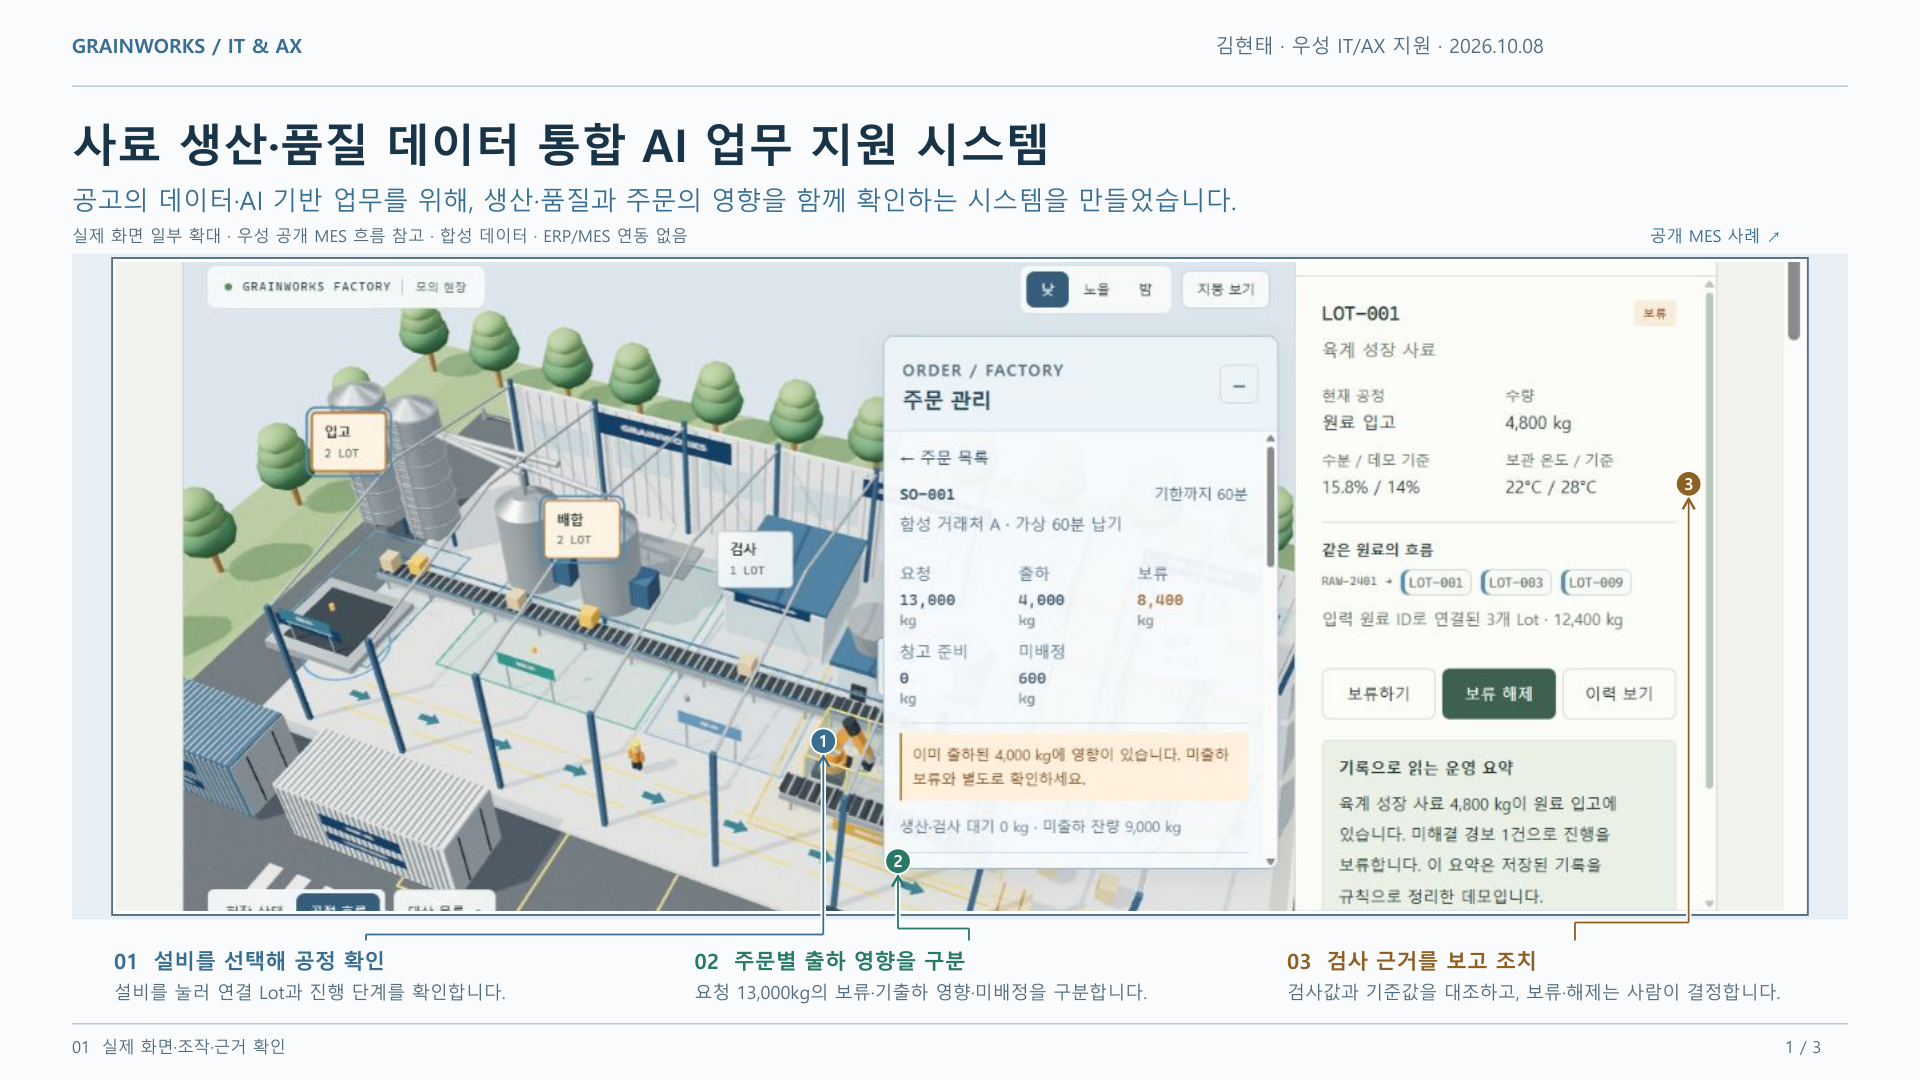
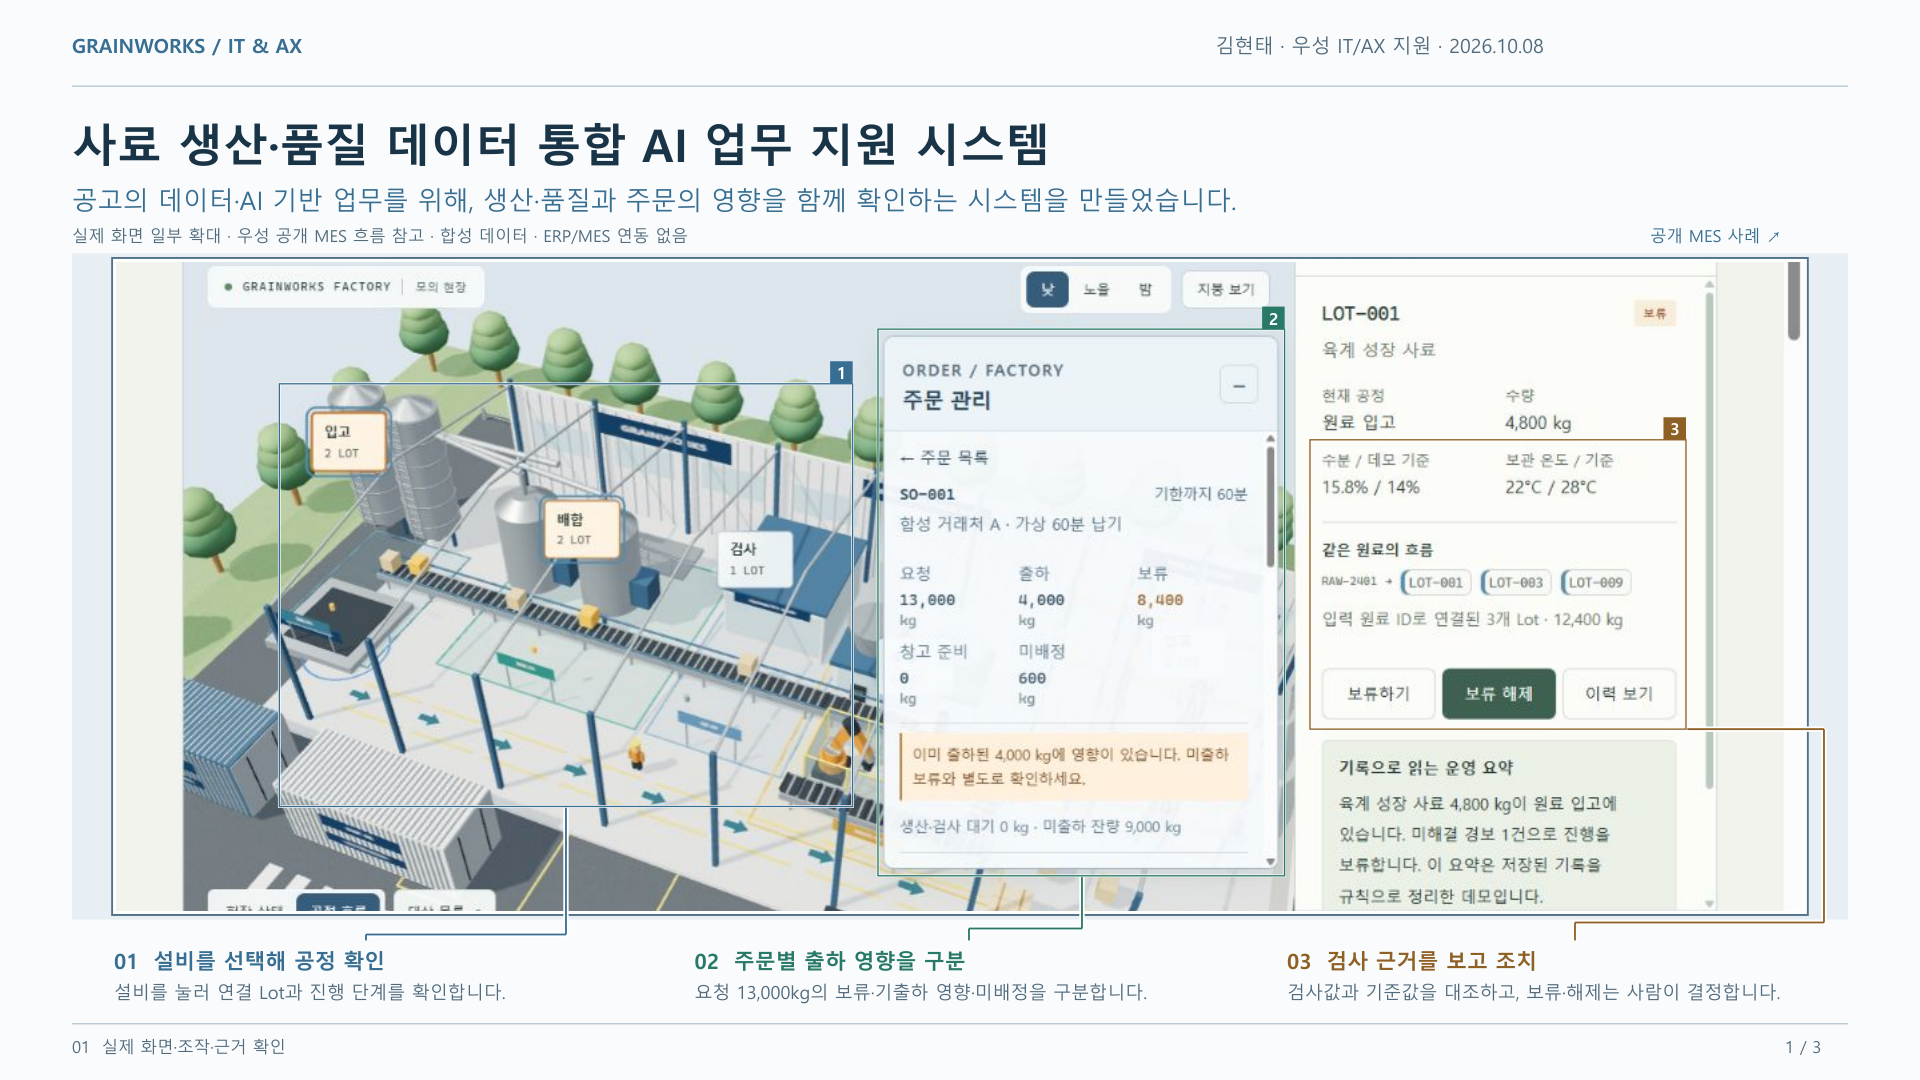
Outline portfolio callout regions and connect explanations to borders

diff --git a/docs/portfolio/build_orders_portfolio.py b/docs/portfolio/build_orders_portfolio.py
@@ -14,7 +14,7 @@ from reportlab.lib.styles import ParagraphStyle
 
 ROOT=Path(__file__).resolve().parents[2]
 OUT=ROOT/'docs/portfolio';ORD=ROOT/'docs/orders';EVID=OUT/'evidence'
-PDF=OUT/'김현태_우성_IT_AX_생산품질_주문_AI_포트폴리오_v11.pdf'
+PDF=OUT/'김현태_우성_IT_AX_생산품질_주문_AI_포트폴리오_v12.pdf'
 REPO='https://github.com/Kimhyuntae9665/grainworks-agent'
 MES='https://www.woosungfeed.co.kr/m11.php'
 JD='https://woosung.recruiter.co.kr/career/jobs/128746'
@@ -61,21 +61,30 @@ def build():
   c.restoreState()
   frames.append({'page':page,'file':str(file.relative_to(ROOT)),'image':[ix,it,iw,ih],'sourceCrop':[left,top,right,bottom],'outerBorder':[ix-3,it-3,iw+6,ih+6],'stroke':'#52728a'})
   return ix,it,iw,ih
- def annotate(page,anchor,route,label,number,title,detail,color,heading_size=12,detail_size=11,detail_offset=21,badge=True,kind='screenshot'):
+ def annotate(page,anchor,route,label,number,title,detail,color,heading_size=12,detail_size=11,detail_offset=21,badge=True,kind='screenshot',region=None):
   ax,at=anchor;lx,lt=label;path=[anchor]+route
   # Leader overlays are separate from the unchanged source screenshot.
   # The label end and image end share a number; white backing keeps the line visible.
   for width,stroke in [(3.6,'#ffffff'),(1.2,color)]:
    c.setLineWidth(width);c.setStrokeColor(HexColor(stroke))
    for (x,t),(x2,t2) in zip(path,path[1:]):c.line(x,H-t,x2,H-t2)
-  c.setFillColor(HexColor(color));c.setStrokeColor(HexColor('#ffffff'));c.setLineWidth(1.2)
-  c.circle(ax,H-at,8.5 if badge else 3,fill=1,stroke=1)
-  if badge:
+  if region:
+   rx,rt,rw,rh=region
+   # Transparent annotation: the box encloses the real target, with its number outside.
+   for width,stroke in [(1.8,'#ffffff'),(0.9,color)]:
+    c.setLineWidth(width);c.setStrokeColor(HexColor(stroke));c.rect(rx,H-rt-rh,rw,rh,fill=0,stroke=1)
+   rect(rx+rw-15,rt-15,15,15,color)
+   c.setFillColor(HexColor('#ffffff'));c.setFont('MGB',11)
+   c.drawCentredString(rx+rw-7.5,H-rt+3,str(number))
+  else:
+   c.setFillColor(HexColor(color));c.setStrokeColor(HexColor('#ffffff'));c.setLineWidth(1.2)
+   c.circle(ax,H-at,8.5 if badge else 3,fill=1,stroke=1)
+  if badge and not region:
    c.setFillColor(HexColor('#ffffff'));c.setFont('MGB',11)
    c.drawCentredString(ax,H-at-3.8,str(number))
   txt(f'{number:02d}  {title}',lx,lt,heading_size,color,True)
   txt(detail,lx,lt+detail_offset,detail_size,MUTED)
-  callouts.append({'page':page,'kind':kind,'number':number,'title':title,'anchor':[ax,at],'leader':path,'label':[lx,lt],'detail':detail})
+  callouts.append({'page':page,'kind':kind,'number':number,'title':title,'anchor':[ax,at],'leader':path,'label':[lx,lt],'detail':detail,'region':list(region) if region else None})
  def arrow(x,t,x2,t2,color=BLUE):
   c.setStrokeColor(HexColor(color));c.setLineWidth(1.5);c.line(x,H-t,x2,H-t2)
   import math
@@ -95,16 +104,16 @@ def build():
  crop=(0,144,1265,630)
  hero=pic(ORD/'order-hero.png',48,169,1184,444,1,crop=crop)
  hx,ht,hw,hh=hero
- for number,pixel,target,lane,label,title,detail,col in [
-  (1,(530,503),244,623,(76,632),'설비를 선택해 공정 확인','설비를 눌러 연결 Lot과 진행 단계를 확인합니다.',BLUE),
-  (2,(586,593),646,619,(463,632),'주문별 출하 영향을 구분','요청 13,000kg의 보류·기출하 영향·미배정을 구분합니다.','#287968'),
-  (3,(1179,310),1050,615,(858,632),'검사 근거를 보고 조치','검사값과 기준값을 대조하고, 보류·해제는 사람이 결정합니다.',AMBER)]:
+ for number,source_box,pixel,target,lane,label,title,detail,col in [
+  (1,(122,235,552,552),(337,552),244,623,(76,632),'설비를 선택해 공정 확인','설비를 눌러 연결 Lot과 진행 단계를 확인합니다.',BLUE),
+  (2,(571,194,876,604),(724,604),646,619,(463,632),'주문별 출하 영향을 구분','요청 13,000kg의 보류·기출하 영향·미배정을 구분합니다.','#287968'),
+  (3,(895,277,1177,494),(1177,494),1050,615,(858,632),'검사 근거를 보고 조치','검사값과 기준값을 대조하고, 보류·해제는 사람이 결정합니다.',AMBER)]:
   ax,at=hx+hw*(pixel[0]-crop[0])/(crop[2]-crop[0]),ht+hh*(pixel[1]-crop[1])/(crop[3]-crop[1])
-  annotate(1,(ax,at),[(ax,lane),(target,lane),(target,627)],label,number,title,detail,col,heading_size=14,detail_size=12,detail_offset=22)
-  # Arrowhead points toward the selected region; the source pixels remain intact.
-  c.setStrokeColor(HexColor(col));c.setLineWidth(1.6)
-  c.line(ax-4,H-(at+17),ax,H-(at+10));c.line(ax+4,H-(at+17),ax,H-(at+10))
-  callouts[-1].update({'sourcePixel':pixel,'arrowhead':True})
+  sl,st,sr,sb=source_box
+  region=(hx+hw*(sl-crop[0])/(crop[2]-crop[0]),ht+hh*(st-crop[1])/(crop[3]-crop[1]),hw*(sr-sl)/(crop[2]-crop[0]),hh*(sb-st)/(crop[3]-crop[1]))
+  route=[(ax,lane),(target,lane),(target,627)] if number<3 else [(1216,at),(1216,lane),(target,lane),(target,627)]
+  annotate(1,(ax,at),route,label,number,title,detail,col,heading_size=14,detail_size=12,detail_offset=22,region=region)
+  callouts[-1].update({'sourcePixel':pixel,'sourceRegion':source_box})
  c.showPage()
  # 02: Inventory allocation is an inclusion relation; quality changes propagate separately.
  base(2,'02  주문 연결·상태 구분·입력 변경 검증')
@@ -133,18 +142,19 @@ def build():
  detail_frame=pic(EVID/'order-detail.png',770,170,442,300,2)
  txt('관찰 안내 · 화면의 숫자를 읽는 법',780,478,14,INK,True)
  dx,dt,dw,dh=detail_frame
- for number,pixel,gutter,title,detail,col in [
-  (1,(485,199),1230,'미출하 보류 8,400 kg','출하 전 품질 문제로 막힌 물량입니다.',AMBER),
-  (2,(594,317),1222,'기출하 영향 4,000 kg','이미 출하한 기록의 영향을 따로 봅니다.',BLUE),
-  (3,(265,259),758,'미배정 600 kg','요청량 중 아직 Lot에 연결하지 않은 물량입니다.','#287968')]:
+ for number,source_box,pixel,gutter,title,detail,col in [
+  (1,(408,166,520,226),(520,226),1230,'미출하 보류 8,400 kg','출하 전 품질 문제로 막힌 물량입니다.',AMBER),
+  (2,(10,298,605,336),(590,336),1222,'기출하 영향 4,000 kg','이미 출하한 기록의 영향을 따로 봅니다.',BLUE),
+  (3,(208,229,313,284),(258,284),758,'미배정 600 kg','요청량 중 아직 Lot에 연결하지 않은 물량입니다.','#287968')]:
   ax,at=dx+dw*pixel[0]/611,dt+dh*pixel[1]/400
+  sl,st,sr,sb=source_box;region=(dx+dw*sl/611,dt+dh*st/400,dw*(sr-sl)/611,dh*(sb-st)/400)
   lane=505+(number-1)*53;lt=514+(number-1)*53
   if number==3:
    blank_row=dt+dh*287/400
    route=[(ax,blank_row),(gutter,blank_row),(gutter,lane),(805,lane),(805,lt-5)]
   else:route=[(gutter,at),(gutter,lane),(805,lane),(805,lt-5)]
-  annotate(2,(ax,at),route,(790,lt),number,title,detail,col,heading_size=14,detail_size=12)
-  callouts[-1]['sourcePixel']=pixel
+  annotate(2,(ax,at),route,(790,lt),number,title,detail,col,heading_size=14,detail_size=12,region=region)
+  callouts[-1].update({'sourcePixel':pixel,'sourceRegion':source_box})
  c.showPage()
  # 03: Logo flow is a verified runtime, not a vendor inventory or company deployment.
  base(3,'03  실제 오픈소스 LLM·검증·운영 경계')
@@ -159,7 +169,8 @@ def build():
   (4,1057,957,'Qwen · 설명 생성','조회한 근거로 설명을 씁니다. 사람 검토 필요.',AMBER)]:
   rect(card_x,414,275,48,'#edf4f8',LINE)
   center=card_x+137.5
-  annotate(3,(anchor_x,386),[(anchor_x,403),(center,403),(center,414)],(card_x+12,419),number,title,detail,col,badge=False,kind='architecture')
+  region=(anchor_x-70,199,140,174)
+  annotate(3,(anchor_x,373),[(anchor_x,403),(center,403),(center,414)],(card_x+12,419),number,title,detail,col,badge=False,kind='architecture',region=region)
  txt('AI를 붙인 뒤, 실제 오류를 확인했습니다.',48,474,18,INK,True)
  para(b['agent.failure'],48,509,558,15,limit=95)
  txt('본인: 방향·요구사항·가독성 검토 / Codex: 구현·자동 검사·실행 검증',48,597,11,MUTED)

diff --git a/docs/portfolio/README.md b/docs/portfolio/README.md
@@ -1,4 +1,4 @@
-# 우성 IT/AX 생산·품질·주문 AI 포트폴리오 · v11
+# 우성 IT/AX 생산·품질·주문 AI 포트폴리오 · v12
 
 [최신 3페이지 PDF](portfolio.pdf) · [편집 소스](build_orders_portfolio.py) · [본문](final-orders.txt) · [PDF 검수](pdf-qa.json) · [구현·실행·AI 검증](../orders/README.md)
 
@@ -7,6 +7,7 @@
 | 공장·주문을 같은 화면에서 관리 | 1쪽 큰 실제 화면 | 반영 |
 | 첫 장 왼쪽 긴 문단을 지우고 화면을 확대 | 1쪽 공장·주문·품질 영역 확대, 역할은 3쪽 한 줄로 이동 | 반영 |
 | 화면에서 화살표를 뽑아 조작과 확인을 설명 | 1쪽 설비 선택·출하 영향 구분·검사 근거와 수동 조치 | 반영 |
+| 숫자뿐 아니라 얇은 네모로 설명 영역을 확실하게 표시 | 1쪽 화면 영역 3개·2쪽 물량 영역 3개·3쪽 기술 영역 4개, 테두리에서 연결선 시작 | 반영 |
 | 모든 장의 여백을 활용해 핵심 요소를 친절하게 설명 | 2쪽 숫자 3개·3쪽 기술 역할 4개에 연결선·한 줄 설명 | 반영 |
 | 공고 업무와 만든 기능을 본문에서 직접 연결 | 1·2·3쪽 제목 아래 연결 문장 | 반영 |
 | 회사 업무와 프로젝트 연결 | 1쪽 직무 연결 문장·공개 MES 참고 캡션, 시연 가정은 README 설명 | 반영 |
@@ -36,10 +37,12 @@ python -X utf8 docs/portfolio/build_orders_portfolio.py
 
 기술 로고의 출처·사용 조건은 [flow](flow/README.md)와 [자산 원장](assets-v8.json)에 있다. Qwen 로고는 공식 조직의 모델 계열 기호이며 후원·회사 연동을 의미하지 않는다.
 
-이전 버전은 당시 구성 이력이다. 최신 자료는 portfolio.pdf와 이름에 생산품질_주문_AI_포트폴리오_v11이 포함된 파일이다. 화면 원본과 승인된 로고 흐름도를 유지하고 PDF 위에 설명을 추가했다. 첫 장의 화면 확대는 PDF의 표시 영역 조정이며 원본 PNG는 수정하지 않았다.
+이전 버전은 당시 구성 이력이다. 최신 자료는 portfolio.pdf와 이름에 생산품질_주문_AI_포트폴리오_v12이 포함된 파일이다. 화면 원본과 승인된 로고 흐름도를 유지하고 PDF 위에 설명을 추가했다. 첫 장의 화면 확대는 PDF의 표시 영역 조정이며 원본 PNG는 수정하지 않았다.
 
 v10은 1쪽의 조작·확인 안내 3개, 2쪽의 보류·기출하 영향·미배정 설명 3개, 3쪽의 기술 역할 설명 4개를 각각 연결선으로 대응시킨다. 2쪽은 미배정 설명을 왼쪽 여백으로 연결해 선 교차를 줄였고, 남은 여백의 선 교차에는 흰색 밑선을 적용해 색별 경로를 구분한다. 주요 UI 글자·버튼은 가리지 않는다.
 
 v11은 첫 장의 긴 문제·회사·역할 문단을 화면 설명으로 대체했다. 실제 화면을 크게 유지하면서 설비를 선택하는 위치, 주문별 물량을 구분하는 위치, 검사값을 대조하고 수동 조치하는 위치를 안내한다. 2쪽의 수량 검증과 3쪽의 오픈소스 AI 흐름·한계 설명은 유지했다.
+
+v12는 모든 장의 핵심 설명 대상 10개를 투명한 사각 테두리로 감쌌다. 화면의 공정·주문·검사 영역, 보류·기출하 영향·미배정 영역, 기술별 로고와 이름을 각각 묶고 테두리에서 설명선을 연결한다. 번호는 테두리 밖에 둔다. 원본 이미지와 본문 문구는 유지했고, 레이아웃 변경만으로 별도 윤문은 실행하지 않았다. 3페이지 렌더링에서 영역 범위·테두리 도착점·주요 글자 가림·바깥 네 변·QR을 확인했다.
 
 3쪽 Python API 설명은 실제 `order_tools.py`와 `agent_backend.py`를 대조했다. 주문 수량 계산은 JS 상태 엔진이 수행하고 Python API는 주문·Lot 기록과 계산 결과를 조회한다. LangGraph는 모델이 선택한 허용 도구를 호출하며 Ollama는 Qwen을 로컬 실행한다. 모델의 자유 서술은 사람의 근거 대조가 필요하다.

diff --git a/README.md b/README.md
@@ -35,7 +35,7 @@ Qwen 모델이 Ollama의 native `tool_calls`를 반환하면 LangGraph가 허용
 
 ## 포트폴리오와 실행 근거
 
-- [3페이지 포트폴리오](docs/portfolio/portfolio.pdf) - v11: 첫 장 실제 화면 확대와 화살표 설명, 배정 전후·실제 LLM 구조와 오류 검증
+- [3페이지 포트폴리오](docs/portfolio/portfolio.pdf) - v12: 큰 실제 화면의 영역 테두리와 연결 설명, 배정 전후·실제 LLM 구조와 오류 검증
 - [주문 연결 실행·검수 기록](docs/orders/README.md)
 - [새 설비 조회·정지 비교·품질 영향의 실제 모델 기록](docs/factory/README.md)
 - [실제 모델 평가 기록](docs/evaluation/live-model.json) · [평가 설명](docs/evaluation/README.md)
